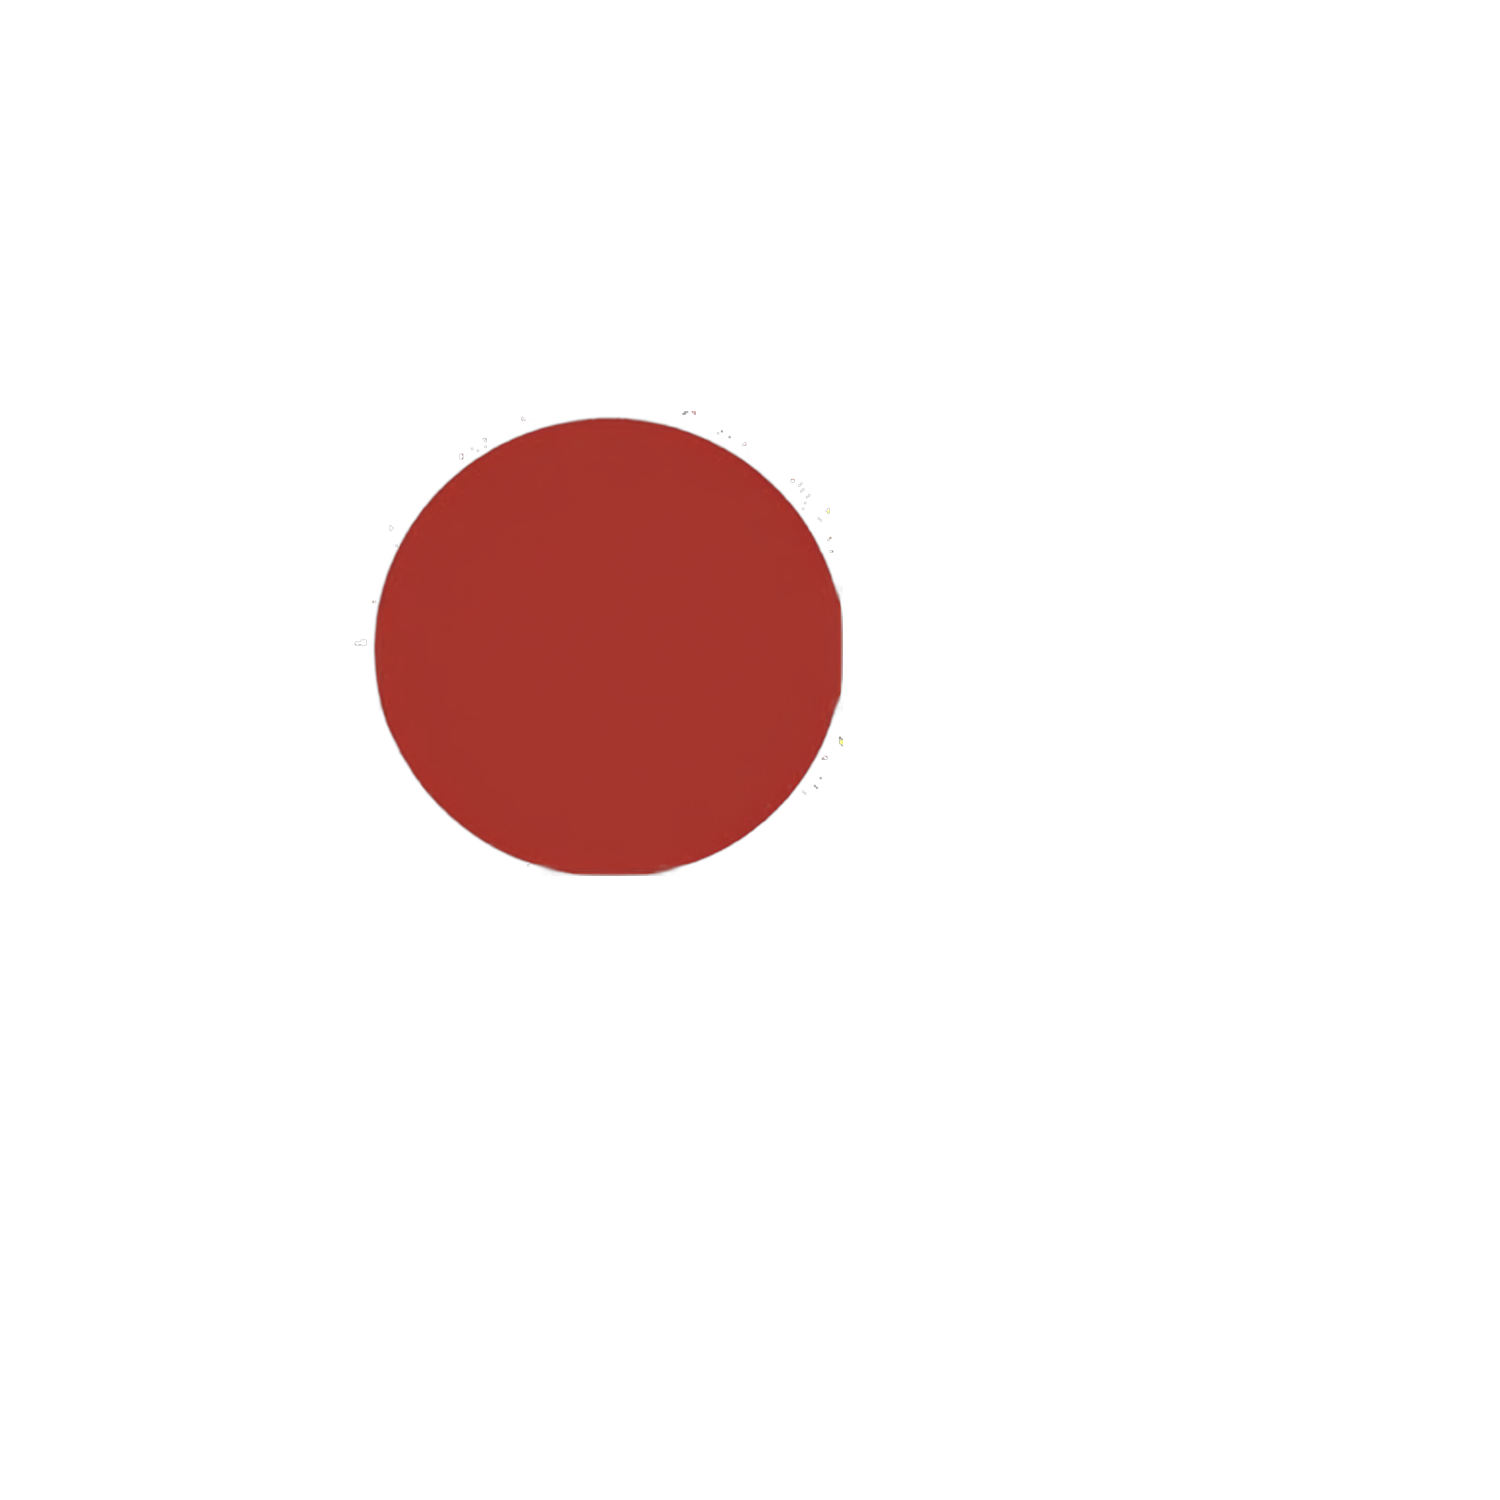
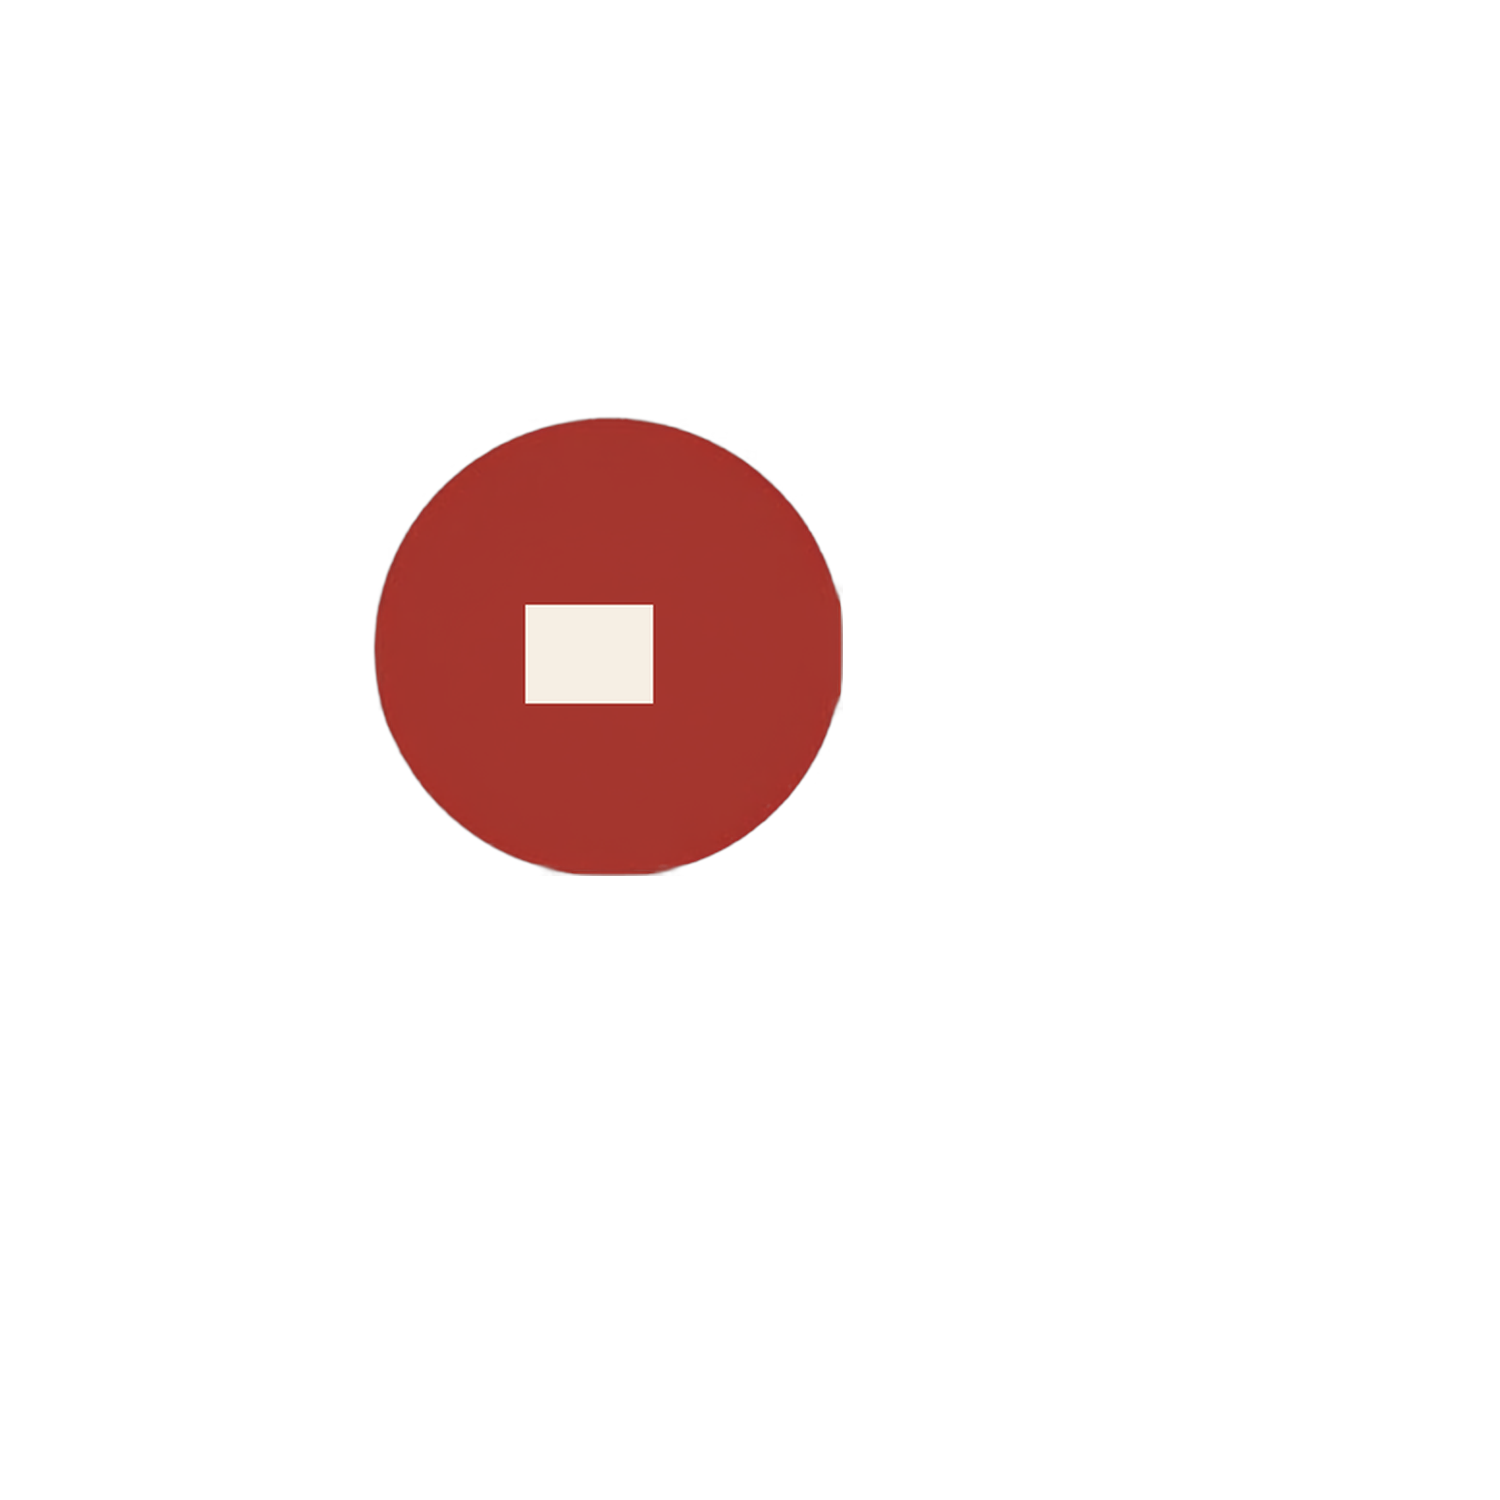
fix(sakura): restore original static layer 7 and layer 8 parallax petals and fix Mount Fuji snow cap

Changed region(s): [[0.3373, 0.3987, 0.46, 0.4907]]

diff --git a/script.js b/script.js
@@ -147,108 +147,7 @@ document.addEventListener('DOMContentLoaded', () => {
     
     initStarfield();
 
-    // 0.2 DYNAMIC SAKURA PETALS PARTICLE SYSTEM (GPU ACCELERATED WITH FALLBACK)
-    function initSakuraParticles() {
-        const canvas = document.getElementById('sakura-canvas');
-        if (!canvas) return;
 
-        let ctx = null;
-        try {
-            // Attempt hardware-accelerated 2D context
-            ctx = canvas.getContext('2d', { alpha: true, desynchronized: true, willReadFrequently: false });
-        } catch (err) {
-            ctx = canvas.getContext('2d');
-        }
-        if (!ctx) return;
-
-        let width = canvas.width = window.innerWidth;
-        let height = canvas.height = window.innerHeight;
-
-        window.addEventListener('resize', () => {
-            width = canvas.width = window.innerWidth;
-            height = canvas.height = window.innerHeight;
-        }, { passive: true });
-
-        const petal1 = new Image();
-        const petal2 = new Image();
-        petal1.src = new URL('./assets/sakura_petal_1.webp', import.meta.url).href;
-        petal2.src = new URL('./assets/sakura_petal_2.webp', import.meta.url).href;
-
-        const petalsList = [];
-        const numPetals = 35;
-        let imagesLoaded = 0;
-
-        function onImageLoad() {
-            imagesLoaded++;
-            if (imagesLoaded === 2) {
-                createPetals();
-                animatePetals();
-            }
-        }
-
-        petal1.onload = onImageLoad;
-        petal2.onload = onImageLoad;
-
-        function createPetals() {
-            for (let i = 0; i < numPetals; i++) {
-                petalsList.push({
-                    x: Math.random() * (width + 200) - 100,
-                    y: Math.random() * (height + 100) - 100,
-                    image: Math.random() > 0.55 ? petal1 : petal2,
-                    scale: Math.random() * 0.28 + 0.12,
-                    speedY: Math.random() * 1.6 + 0.8,
-                    speedX: Math.random() * 1.3 + 0.4,
-                    swaySpeed: Math.random() * 0.015 + 0.005,
-                    swayAmp: Math.random() * 25 + 10,
-                    swayOffset: Math.random() * Math.PI * 2,
-                    angle: Math.random() * Math.PI * 2,
-                    rotateSpeed: Math.random() * 0.018 - 0.009,
-                    flip: Math.random() * Math.PI * 2,
-                    flipSpeed: Math.random() * 0.035 + 0.015
-                });
-            }
-        }
-
-        function animatePetals() {
-            ctx.clearRect(0, 0, width, height);
-
-            for (let i = 0; i < petalsList.length; i++) {
-                const p = petalsList[i];
-                
-                // Drift falling physics
-                p.y += p.speedY;
-                p.x += p.speedX + Math.sin(p.y * p.swaySpeed + p.swayOffset) * 0.35;
-                p.angle += p.rotateSpeed;
-                p.flip += p.flipSpeed;
-
-                // Recycle offscreen petals
-                if (p.y > height + 80 || p.x > width + 80) {
-                    p.y = -80;
-                    p.x = Math.random() * (width + 200) - 150;
-                    p.speedY = Math.random() * 1.6 + 0.8;
-                    p.speedX = Math.random() * 1.3 + 0.4;
-                    p.scale = Math.random() * 0.28 + 0.12;
-                }
-
-                // Render with GPU accelerated scale, rotation, and 3D flip effect
-                ctx.save();
-                ctx.translate(p.x, p.y);
-                ctx.rotate(p.angle);
-                
-                // 3D flip using cosine scaling
-                const flipScaleX = Math.cos(p.flip);
-                ctx.scale(p.scale * flipScaleX, p.scale);
-
-                // Draw petal centered
-                ctx.drawImage(p.image, -p.image.width / 2, -p.image.height / 2);
-                ctx.restore();
-            }
-
-            requestAnimationFrame(animatePetals);
-        }
-    }
-
-    initSakuraParticles();
 
     // 1. MOBILE MENU TOGGLE
     const menuToggle = document.getElementById('menu-toggle');
@@ -311,7 +210,8 @@ document.addEventListener('DOMContentLoaded', () => {
     const layerSvg4 = document.querySelector('.layer-svg-4');
     const layerSvg5 = document.querySelector('.layer-svg-5');
     const layerSvg6 = document.querySelector('.layer-svg-6');
-    const layerSakuraCanvas = document.querySelector('.layer-sakura-canvas');
+    const layerSvg7 = document.querySelector('.layer-svg-7');
+    const layerSvg8 = document.querySelector('.layer-svg-8');
     const layerText = document.querySelector('.hero-content');
 
     let mouseX = 0;
@@ -373,7 +273,8 @@ document.addEventListener('DOMContentLoaded', () => {
             if (layerSvg4) layerSvg4.style.transform = `translate3d(${mSvg4X}px, ${sSvg4Y + mSvg4Y}px, 0) scale(1.02)`;
             if (layerSvg5) layerSvg5.style.transform = `translate3d(${mSvg5X}px, ${sSvg5Y + mSvg5Y}px, 0) scale(1.02)`;
             if (layerSvg6) layerSvg6.style.transform = `translate3d(${mSvg6X}px, ${sSvg6Y + mSvg6Y}px, 0) scale(1.01)`;
-            if (layerSakuraCanvas) layerSakuraCanvas.style.transform = `translate3d(${mSvg7X}px, ${sSvg7Y + mSvg7Y}px, 0) scale(1.01)`;
+            if (layerSvg7) layerSvg7.style.transform = `translate3d(${mSvg7X}px, ${sSvg7Y + mSvg7Y}px, 0) scale(1.01)`;
+            if (layerSvg8) layerSvg8.style.transform = `translate3d(${mSvg7X * 1.2}px, ${sSvg7Y + mSvg7Y * 1.2}px, 0) scale(1.01)`;
             if (layerText) layerText.style.transform = `translate3d(${mTextX}px, ${sTextY + mTextY}px, 0)`;
         }
 

diff --git a/index.html b/index.html
@@ -186,8 +186,9 @@
         <!-- Capa 8: Rama de Sakura y Flores (SVG Layer 6) -->
         <div class="parallax-layer layer-svg-6" style="background-image: url('assets/svg_true_layer_6.webp');"></div>
         
-        <!-- Capa 9: Pétalos de Cerezo Dinámicos (Canvas 2D con aceleración GPU) -->
-        <canvas id="sakura-canvas" class="parallax-layer layer-sakura-canvas"></canvas>
+        <!-- Capa 9: Pétalos Flotantes (SVG Layers 7 & 8) -->
+        <div class="parallax-layer layer-svg-7" style="background-image: url('assets/svg_true_layer_7.webp');"></div>
+        <div class="parallax-layer layer-svg-8" style="background-image: url('assets/svg_true_layer_8.webp');"></div>
         
         <!-- Capa 10: Contenido Principal con el Logo Tipográfico Oficial -->
         <div class="parallax-layer parallax-text">

diff --git a/styles.css b/styles.css
@@ -596,17 +596,12 @@ body.theme-night .layer-svg-6 {
     filter: drop-shadow(0 0 15px rgba(217, 4, 41, 0.35));
 }
 
-/* SVG Layers 7 & 8: Pétalos Flotantes */
-.layer-sakura-canvas {
+.layer-svg-7, .layer-svg-8 {
     z-index: 8;
-    position: absolute;
-    top: 0;
-    left: 0;
-    width: 100%;
-    height: 100%;
-    pointer-events: none;
-    will-change: transform;
-    transform: translate3d(0, 0, 0);
+    background-size: contain;
+    background-position: right 6% center;
+    background-repeat: no-repeat;
+    filter: drop-shadow(0 0 10px rgba(217, 4, 41, 0.4));
 }
 
 .hero-main-logo-wrapper {
